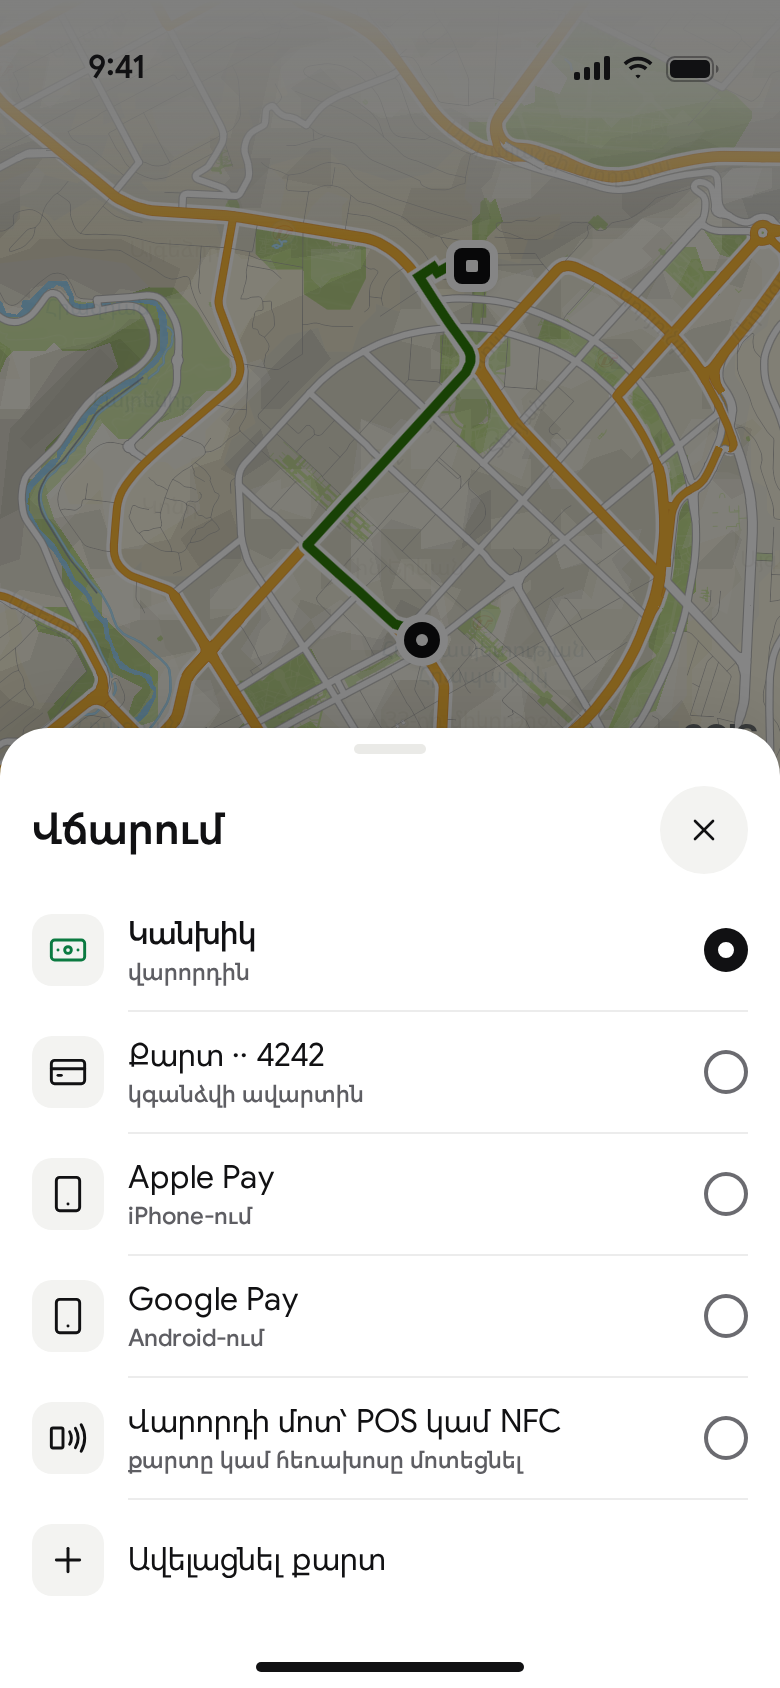
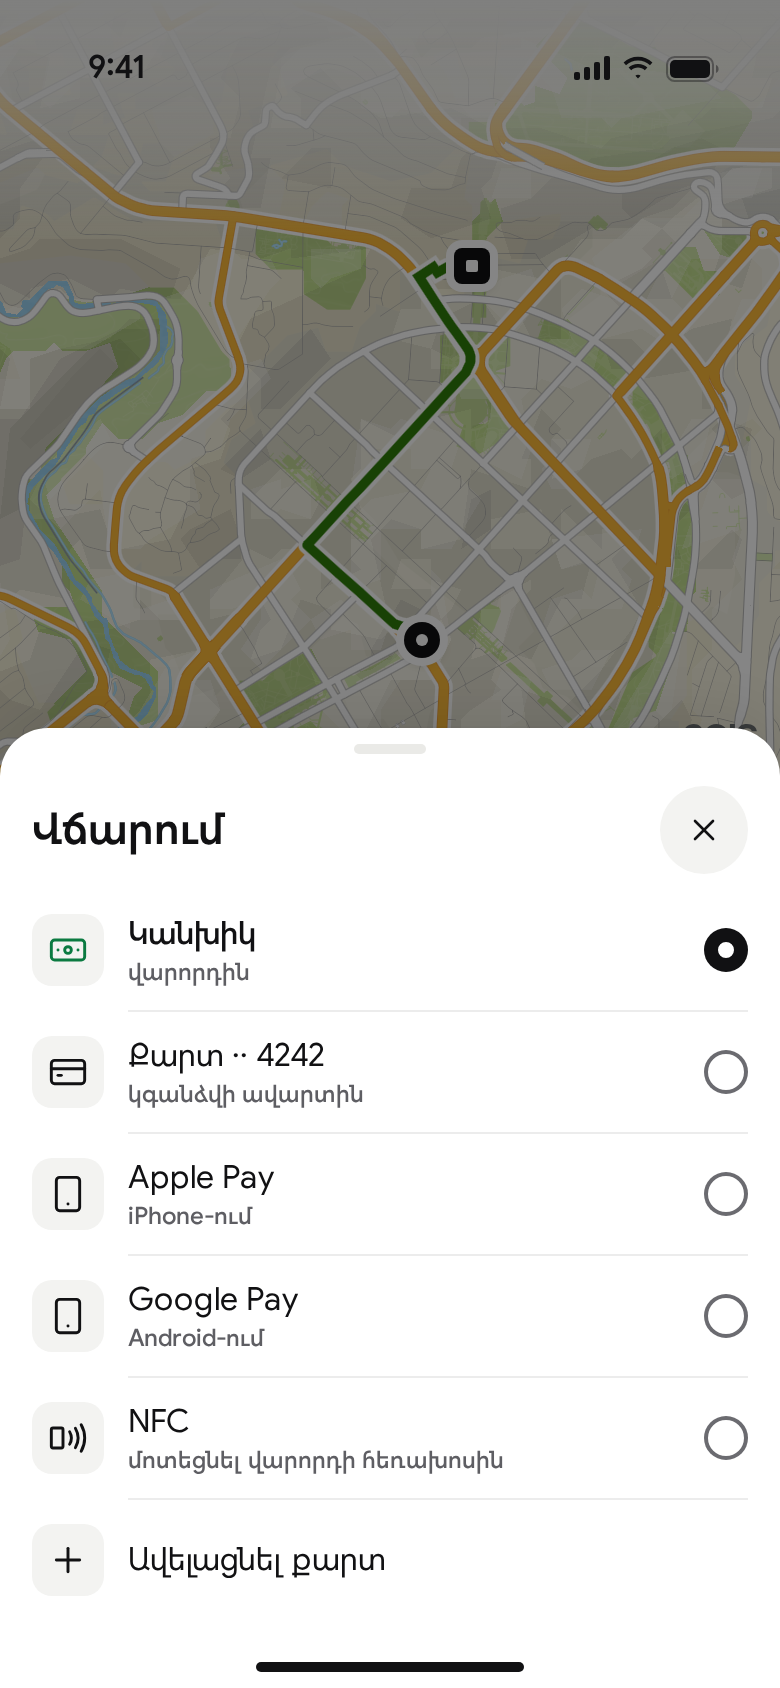
Preview: rider payment option NFC only

Changed region(s): [[0.1538, 0.8318, 0.4615, 0.8934], [0.4615, 0.8318, 0.7077, 0.8934]]

diff --git a/rider-book.html b/rider-book.html
@@ -294,7 +294,7 @@ ROUTES.preCo = { m: 5168, s: 485, pts: [[40.206708,44.503782],[40.206482,44.5040
 
   Rider.page({
     title: 'Rider · Booking details',
-    sub: 'Extends the approved tier sheet: when (now, or a quarter-hour up to 7 days ahead), a note for the driver (now only), payment (cash, card, Apple / Google Pay, POS or NFC at the driver), and the company / personal choice for corporate riders (monthly limit left, allowed places), and a promo code',
+    sub: 'Extends the approved tier sheet: when (now, or a quarter-hour up to 7 days ahead), a note for the driver (now only), payment (cash, card, Apple / Google Pay, NFC at the driver), and the company / personal choice for corporate riders (monthly limit left, allowed places), and a promo code',
     states: [
       { id: 'details', group: 'Sheet', label: 'Details', note: 'One compact line under the tiers: when · note · payment. Order stays the one accent',
         html: () => details(null, TRIPS.now), map: (s) => drawRide(s) },
@@ -313,7 +313,7 @@ ROUTES.preCo = { m: 5168, s: 485, pts: [[40.206708,44.503782],[40.206482,44.5040
         html: () => whenSheet(1, B.air.time, 7), after: daysInView, map: (s) => drawRide(s, false, TRIPS.air) },
       { id: 'when-late', group: 'Sheets', label: 'When · late evening', time: '23:41', note: 'R29 (drawn ahead: the real sheet opens on an empty «Այսօր»). At 23:41 the first slot is past midnight, so today has none: its chip is struck through and the sheet opens on Tomorrow from 00:15. The row ends at the seventh day, and the line says both limits once',
         html: () => whenSheet(1, null, 0, { now: 23 * 60 + 41, note: 'Այսօր ազատ ժամ չկա · առավելագույնը 7 օր առաջ' }), after: (s) => s.querySelectorAll('.days .chip').forEach((c) => { const r = c.getBoundingClientRect(); if (r.right > 390) c.dataset.peek = '' }), map: (s) => drawRide(s, false, TRIPS.air) },
-      { id: 'pay', group: 'Sheets', label: 'Payment', note: 'Owner 2026-10-15: cash, a saved card, Apple Pay (iPhone) / Google Pay (Android), or paying at the driver by POS terminal or NFC; «Ավելացնել քարտ» at the foot. Drawn ahead of card processing. A company rider chooses Company / Personal on the sheet itself',
+      { id: 'pay', group: 'Sheets', label: 'Payment', note: 'Owner 2026-10-15: cash, a saved card, Apple Pay (iPhone) / Google Pay (Android), or NFC (tap a card or phone on the driver\'s phone); «Ավելացնել քարտ» at the foot. Drawn ahead of card processing. A company rider chooses Company / Personal on the sheet itself',
         html: () => modal('Վճարում', R.payList('cash')), map: (s) => drawRide(s, false) },
 
       { id: 'company', group: 'Company', label: 'Company ride · limit left', note: 'Change list 2026-10-14: no cost-centre code. Home → office (both allowed places, ECO.COMPANY.places): Company is offered; the billed-to line shows the employee\'s monthly limit left (ECO.COMPANY.empLimit.rider: 65 000 ֏, 12 600 left). Drawn ahead',

diff --git a/rider-ride.html b/rider-ride.html
@@ -244,7 +244,7 @@
           htmlMarker(m, k.ll, carTop(k.deg), [18, 34])
         } },
 
-      { id: 'pay-change', group: 'In the ride', label: 'Change payment', note: 'Change list 2026-10-15: «Փոխել» on the ride card opens the payment sheet mid-ride. Any method (cash, card, Apple / Google Pay, POS or NFC at the driver); allowed until the driver completes the ride (then the row locks). The driver sees the change at once (driver-ride#paychanged). Company rides do not show the row. Card payments are drawn ahead',
+      { id: 'pay-change', group: 'In the ride', label: 'Change payment', note: 'Change list 2026-10-15: «Փոխել» on the ride card opens the payment sheet mid-ride. Any method (cash, card, Apple / Google Pay, NFC at the driver); allowed until the driver completes the ride (then the row locks). The driver sees the change at once (driver-ride#paychanged). Company rides do not show the row. Card payments are drawn ahead',
         time: '9:48', ...modal('Վճարման եղանակ', `${R.payList('card', { ride: true })}
           <div class="inline-note" style="margin:var(--s3) 0">${R.i('info')}<span>Կարող եք փոխել մինչև ուղևորության ավարտը · վարորդը կտեսնի անմիջապես</span></div>
           <button class="btn btn-brand">Պահել</button>`, 'riding'),

diff --git a/rider.js b/rider.js
@@ -73,7 +73,7 @@
       row('card', 'credit-card', `${P.card.label} ·· ${P.card.last4}`, 'կգանձվի ավարտին'),
       row('applepay', 'smartphone', P.applepay.label, 'iPhone-ում'),
       row('googlepay', 'smartphone', P.googlepay.label, 'Android-ում'),
-      row('driver', 'smartphone-nfc', 'Վարորդի մոտ՝ POS կամ NFC', 'քարտը կամ հեռախոսը մոտեցնել'),
+      row('nfc', 'smartphone-nfc', 'NFC', 'մոտեցնել վարորդի հեռախոսին'),
     ].join(div)}${div}<button class="choice"><span class="ico">${R.i('plus')}</span><span class="t">Ավելացնել քարտ</span></button></div>`
   }
   window.R = R
